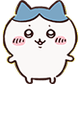
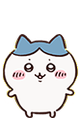
fix : 커서 그림을 발끝 기준으로 맞추고 포인터 지점을 얼굴 위로 이동

diff --git a/src/app/globals.css b/src/app/globals.css
@@ -350,8 +350,9 @@ li { margin-bottom: 0.3em; }
   --cursor-hover: url('/cursor/usagi-hover.png');
 }
 
+/* 그림을 아래로 맞춰 담아서 얼굴은 여섯 장 모두 y 14~21 에 온다. 그 위를 가리킨다. */
 body {
-  cursor: var(--cursor-idle) 6 4, auto;
+  cursor: var(--cursor-idle) 8 18, auto;
 }
 a,
 button,
@@ -363,7 +364,7 @@ summary,
 .tile,
 .row,
 .leaflet-container {
-  cursor: var(--cursor-hover) 6 4, pointer;
+  cursor: var(--cursor-hover) 8 18, pointer;
 }
 input,
 select,
@@ -378,8 +379,9 @@ textarea {
 .cursor-picker-options button {
   width: 38px;
   height: 38px;
-  display: grid;
-  place-items: center;
+  display: flex;
+  align-items: flex-end;
+  justify-content: center;
   border: 2px solid transparent;
   border-radius: 12px;
   background: var(--surface-2);

diff --git a/scripts/cursor.py b/scripts/cursor.py
@@ -59,8 +59,8 @@ def save(image: Image.Image, name: str, ratio: float, canvas_height: int) -> Non
     for scale, suffix in ((1, ""), (2, "@2x")):
         canvas = Image.new("RGBA", (WIDTH * scale, canvas_height * scale), (0, 0, 0, 0))
         resized = image.resize((width * scale, height * scale), Image.LANCZOS)
-        # 위를 맞춘다. 우사기 귀가 아래로 밀려 얼굴 위치가 들쭉날쭉해지는 걸 막는다.
-        canvas.paste(resized, ((canvas.width - resized.width) // 2, 0))
+        # 발끝을 맞춘다. 위를 맞추면 귀가 긴 우사기만 혼자 아래로 내려가 보인다.
+        canvas.paste(resized, ((canvas.width - resized.width) // 2, canvas.height - resized.height))
         canvas.save(OUT / f"{name}{suffix}.png")
 
 
